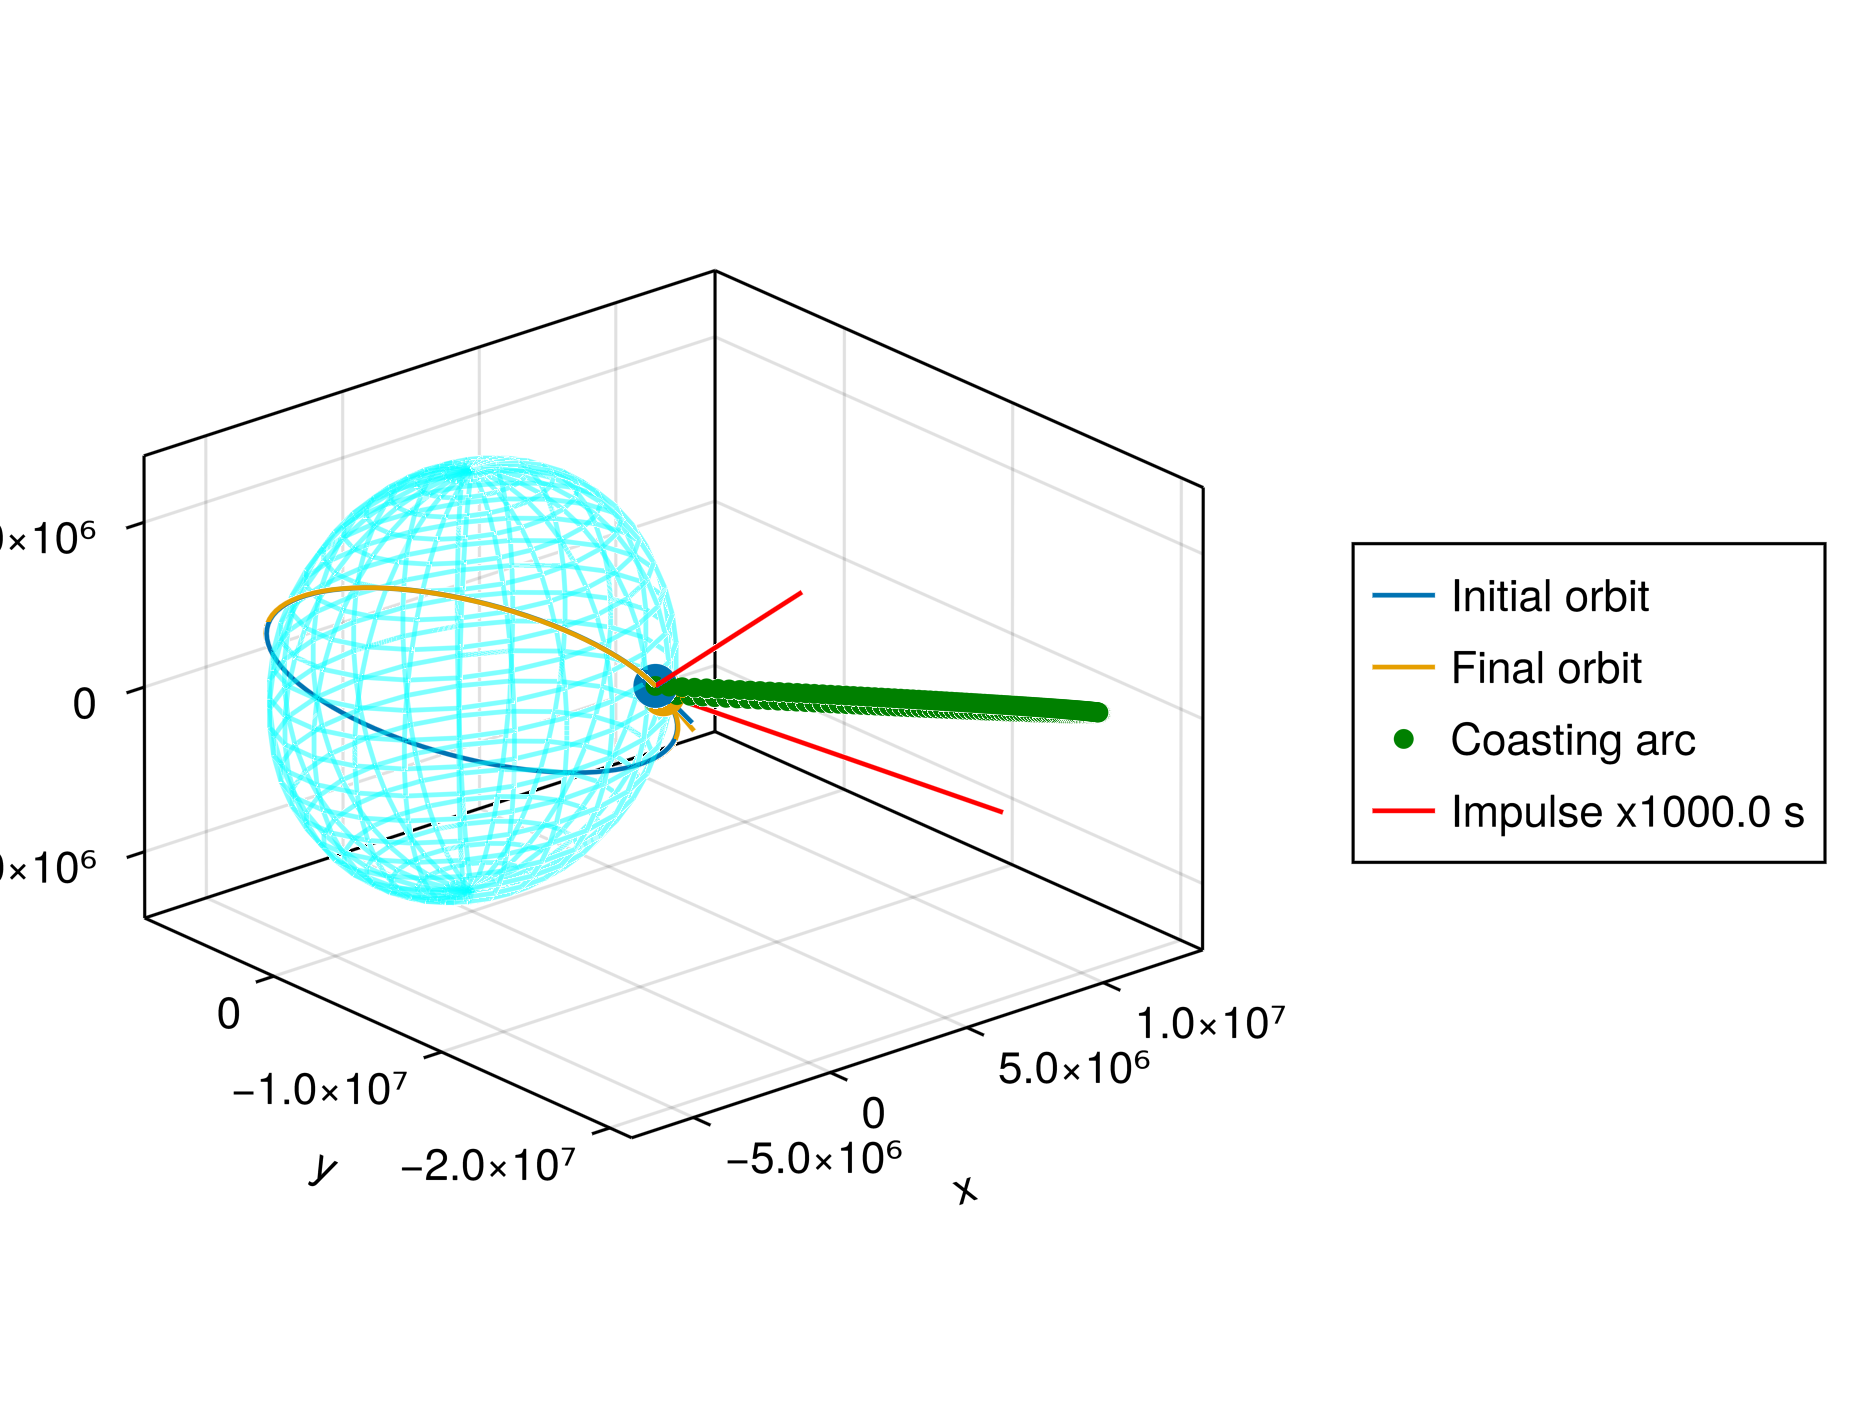
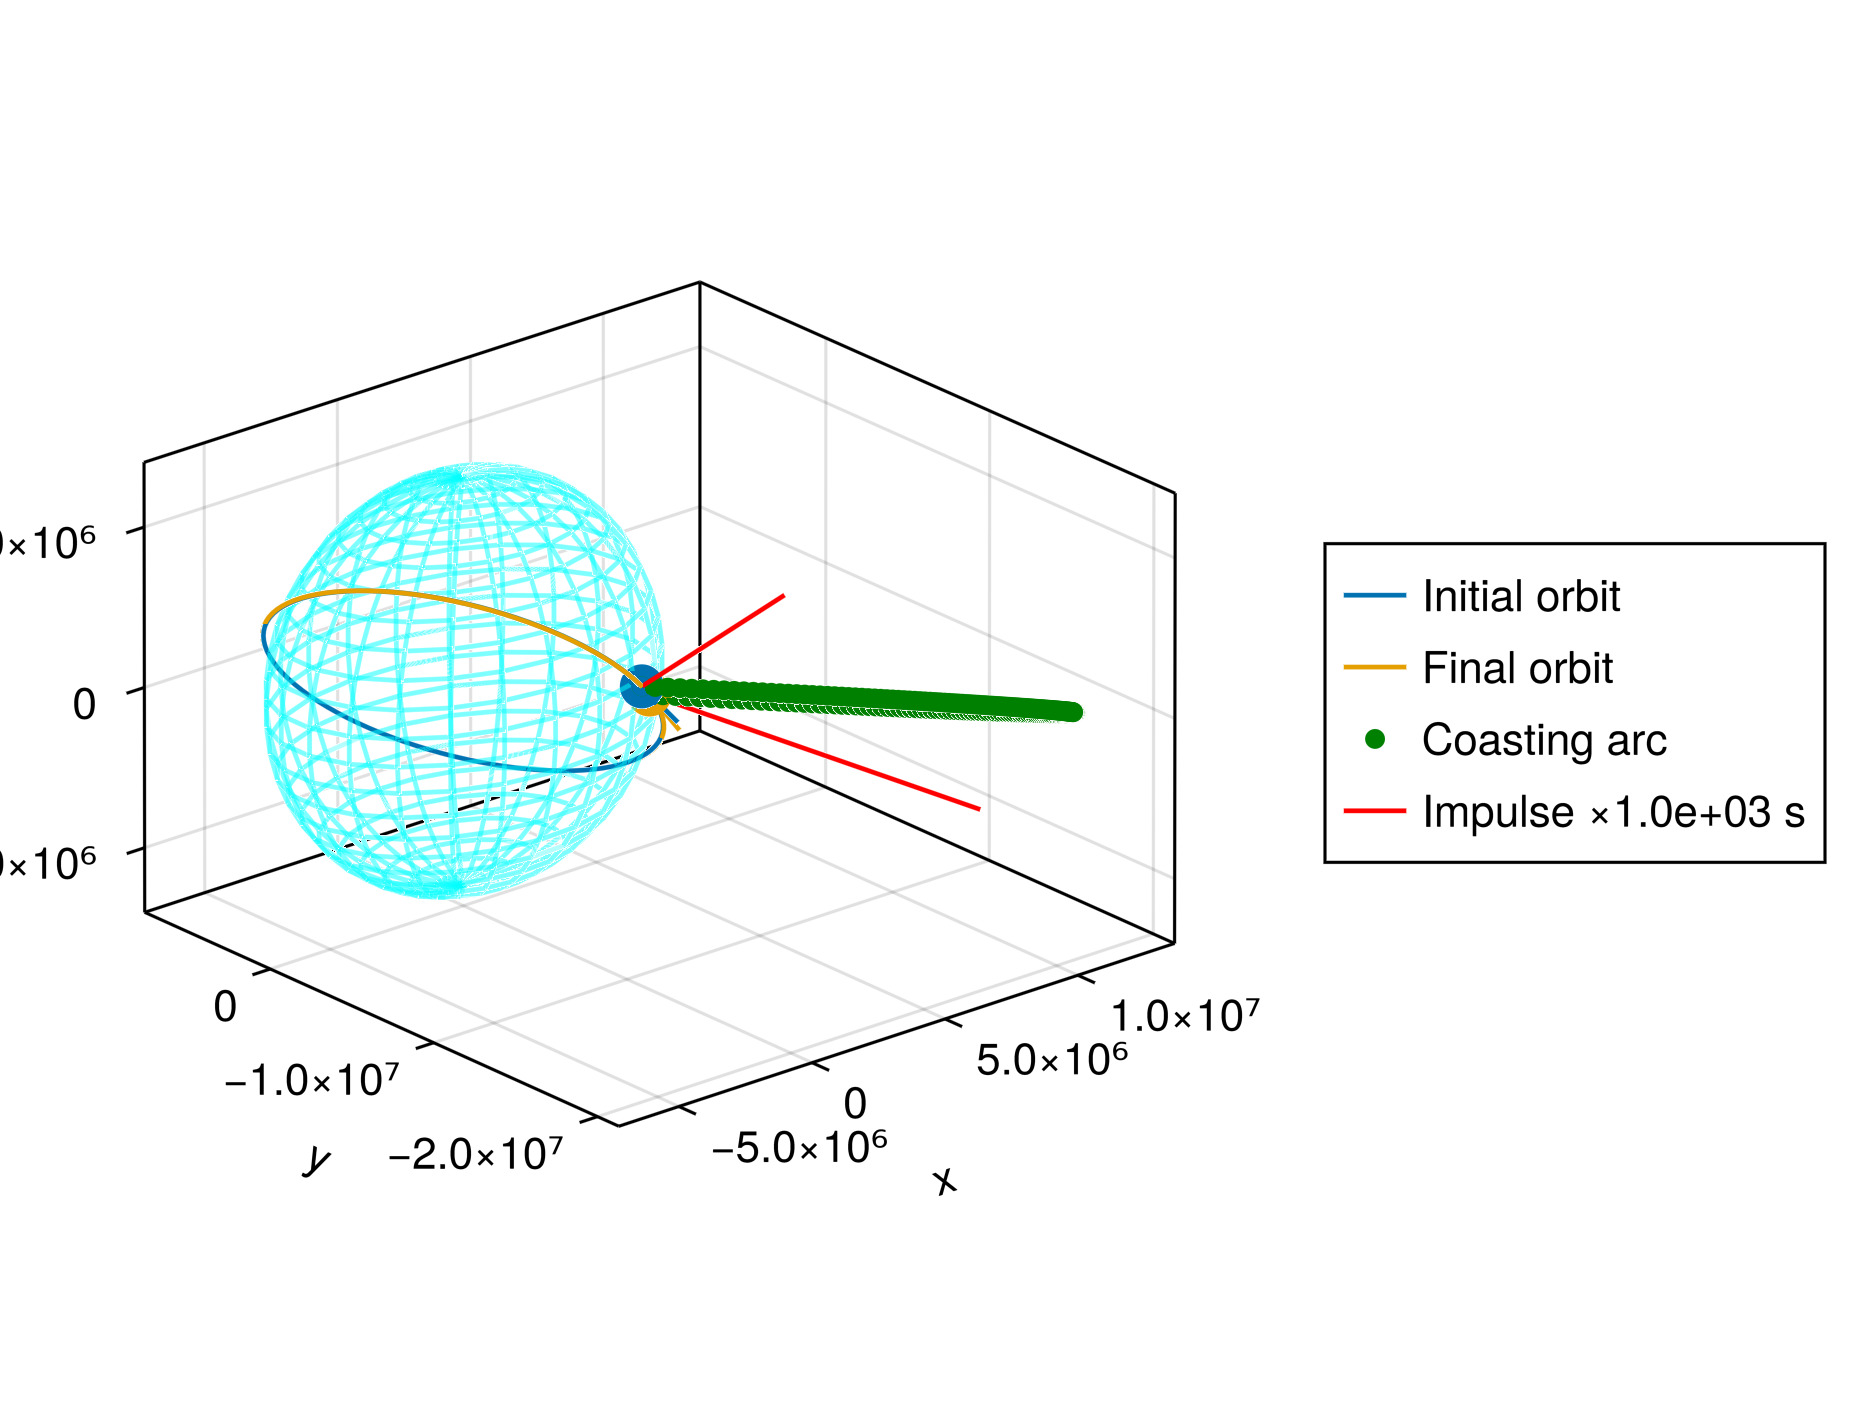
keplerian noncop figs regenerated

diff --git a/report/text/resultados.tex b/report/text/resultados.tex
@@ -51,8 +51,8 @@ A second, more challenging scenario is taken from \citeonline{interactive_primer
         \(\theta\) & \(175.0^\circ\)  & \(180.0^\circ\)  \\ 
         Transfer time & \multicolumn{2}{c}{\(11107.158\)} \\\bottomrule
     \end{tabular}
-    \caption{Orbital elements used for the noncoplanar rendez-vous case analysis}
-    \label{tab:noncop_rdv_orb_elems}
+    \caption{Orbital elements used for the TODO transfer case analysis}
+    \label{tab:TODO_orb_elems}
 \end{table}
 % NCOP SCENARIO
 
@@ -143,17 +143,17 @@ The more complex noncoplanar rendez-vous case was optimized with an \texttt{ICI}
 \begin{table}[htpb]
     \centering
     \begin{tabular}{cccc} \toprule
-    \multicolumn{2}{c}{\textbf{Maneuver type}} & \multicolumn{2}{c}{ICI} \\ \midrule
-    \(L\) (m) & \(T\) (s) & \(\varepsilon\) & \(\Delta x_{f}\) (m)    \\ \midrule
-    6.7631e6          & 11107.158          & 1.00e-06                & 0.0                        \\ \midrule
+    \multicolumn{2}{c}{\textbf{Maneuver type}} & \multicolumn{2}{c}{\texttt{ICI}} \\ \midrule
+    \(L\) (m) & \(T\) (s) & \(\varepsilon\) & \(\lVert \Delta \pos_{f} \rVert\) (m)    \\ \midrule
+    6.7631e6          & 1.0          & 1.00e-06                & 4.26292e-06                        \\ \midrule
     \(\max \lVert p \rVert\) & 1.0     & \textbf{Diagnostic}   & Local optimum        \\ \midrule
     \textbf{Impulse} & \(t\) (s) & \(\Delta v\) (m/s) & \(1 - p \cdot \hat{u}\) \\ \midrule
     1                 & 0.0          & 11740.94035             & -0.0                    \\
     2                 & 11107.1576          & 11708.69678             & -0.0                    \\\midrule
     \textbf{Total}   & 11107.1576          & 23449.63713             &                     \\ \bottomrule   
     \end{tabular}
-    \caption{Summary of optimization for Keplerian noncoplanar \texttt{ICI} rendez-vous.}
-    \label{tab:tb_ncop_ICI_tab}
+    \caption{Summary of optimization for \texttt{ICI} Keplerian Non-Coplanar rendez-vous.}
+    \label{tab:Keplerian_nr_ICI_tab}
 \end{table}
 % TB NCOP ICI
 
@@ -194,7 +194,7 @@ Therefore, a \texttt{CICIC} maneuver case was optimized next. The maneuver's sum
     \begin{tabular}{cccc} \toprule
     \multicolumn{2}{c}{\textbf{Maneuver type}} & \multicolumn{2}{c}{\texttt{CICIC}} \\ \midrule
     \(L\) (m) & \(T\) (s) & \(\varepsilon\) & \(\lVert \Delta \pos_{f} \rVert\) (m)    \\ \midrule
-    6.7631e6          & 11107.158          & 1.00e-05                & 1.66471e-07                        \\ \midrule
+    6.7631e6          & 11107.158          & 1.00e-06                & 1.66471e-07                        \\ \midrule
     \(\max \lVert p \rVert\) & 3.327     & \textbf{Diagnostic}   & Add impulse        \\ \midrule
     \textbf{Impulse} & \(t\) (s) & \(\Delta v\) (m/s) & \(1 - p \cdot \hat{u}\) \\ \midrule
     1                 & 6644.30733          & 37.29252             & -0.0                    \\
@@ -202,7 +202,7 @@ Therefore, a \texttt{CICIC} maneuver case was optimized next. The maneuver's sum
     \textbf{Total}   & 11107.1576          & 53.50237             &                     \\ \bottomrule   
     \end{tabular}
     \caption{Summary of optimization for \texttt{CICIC} Keplerian Non-Coplanar rendez-vous.}
-    \label{tab:tb_nr_CICIC_tab}
+    \label{tab:Keplerian_nr_CICIC_tab}
 \end{table}
 % TB NCOP 2 CICIC
 
@@ -252,7 +252,7 @@ A \texttt{CICICIC} maneuver was searched based on the previous results. The spat
     \textbf{Total}   & 11107.1576          & 43.07342             &                     \\ \bottomrule   
     \end{tabular}
     \caption{Summary of optimization for \texttt{CICICIC} Keplerian Non-Coplanar rendez-vous.}
-    \label{tab:tb_nr_CICICIC_tab}
+    \label{tab:Keplerian_nr_CICICIC_tab}
 \end{table}
 % TB NCOP 3 CICICIC
 
@@ -281,7 +281,7 @@ Finally, the addition of a fourth impulse attains the primer vector necessary co
     \textbf{Total}   & 11107.1576          & 36.14596             &                     \\ \bottomrule   
     \end{tabular}
     \caption{Summary of optimization for \texttt{CICICICIC} Keplerian Non-Coplanar rendez-vous.}
-    \label{tab:tb_nr_CICICICIC_tab}
+    \label{tab:Keplerian_nr_CICICICIC_tab}
 \end{table}
 % TB NCOP 4 CICICICIC
 
